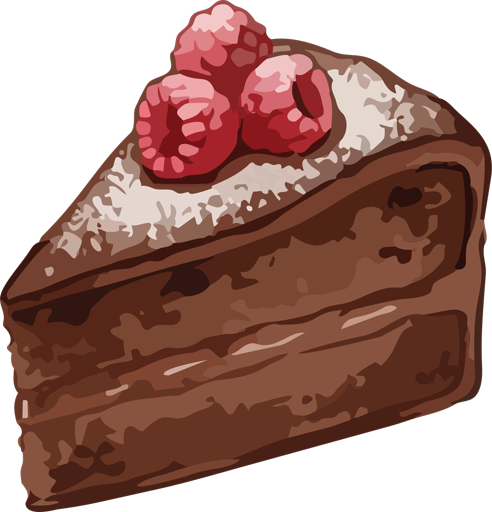
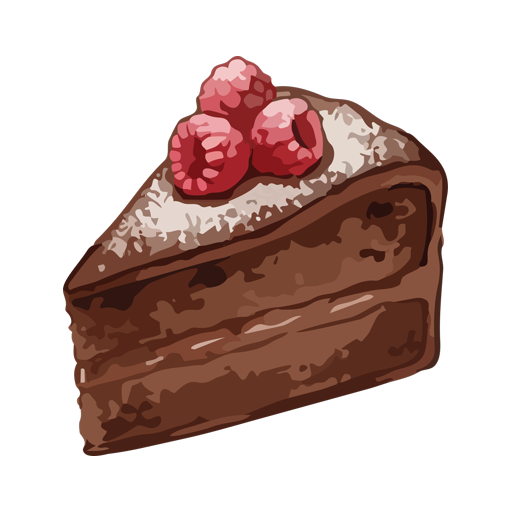
Zoom out K8 card images

diff --git a/scripts/extract-pptx-images.js b/scripts/extract-pptx-images.js
@@ -29,14 +29,23 @@ const sourceOverrides = new Map([
 ]);
 const framingProfiles = new Map([
   ["baju", { size: 400, offsetY: -12 }],
+  ["bas", { size: 400 }],
   ["beca", { size: 480 }],
+  ["cat", { size: 400 }],
   ["cili", { size: 400, offsetY: -12 }],
+  ["gam", { size: 350 }],
+  ["jam", { size: 400 }],
+  ["jus", { size: 400 }],
+  ["kek", { size: 400 }],
   ["kelapa", { size: 400 }],
   ["kereta", { size: 400 }],
   ["kerusi", { size: 400 }],
   ["kuda", { size: 440 }],
   ["lelaki", { size: 440 }],
   ["lima", { size: 400, offsetY: -12 }],
+  ["pen", { size: 300 }],
+  ["pin", { size: 300 }],
+  ["rak", { size: 400 }],
   ["satu", { size: 400, offsetY: -12 }],
   ["tiga", { size: 400, offsetY: -12 }],
 ]);
